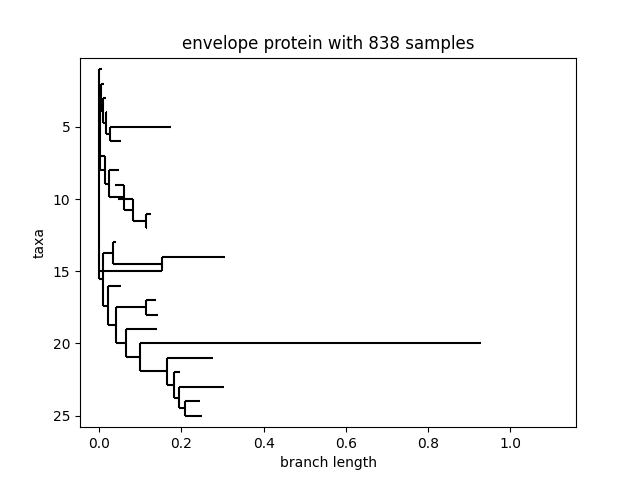
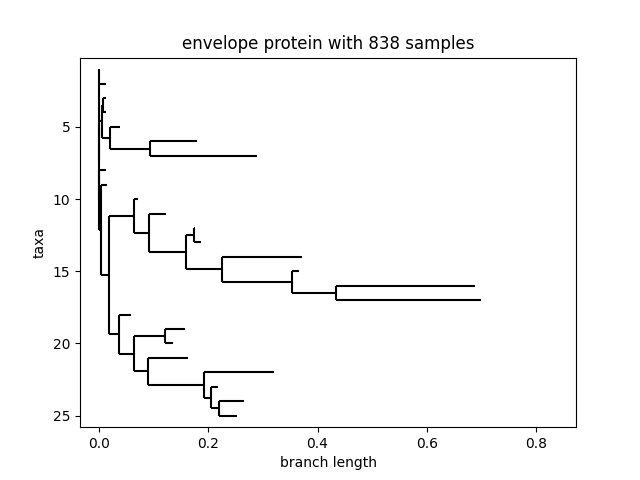
Aligned sequences with muscle tool, updated all phylos and added newick files

diff --git a/src/phylo_proteins/model.py b/src/phylo_proteins/model.py
@@ -1,15 +1,12 @@
-from Bio.Align import MultipleSeqAlignment
-
-
 class Protein:
-    def __init__(self, name, sequence):
+    def __init__(self, name, sequenceRecord):
         """
         Initializes a Protein.
         :param name: name of the protein
         :param sequence: dna sequence associated with the protein
         """
         self.name = name
-        self.sequence = sequence
+        self.sequenceRecord = sequenceRecord
 
 
 class Sample:
@@ -78,50 +75,47 @@ class Samples:
 
     def getAllProteinSequences(self):
         """
-        Returns a dict with protein names as keys and MultipleSequenceAlignment's as values.
-        The alignments only contain unique sequences, so no duplicates are present.
+        Returns a dict with protein names as keys and lists of SeqRecord's as values.
+        The sequences only contain unique sequences, so no duplicates are present.
         """
-        alignments = {}
+        sequences = {}
         sequencesUsed = {}
-        for genome in self.getSamplesAsList():
-            for protein in genome.getProteinsAsList():
-                if protein.name not in alignments:
-                    alignments[protein.name] = MultipleSeqAlignment([])
-                    sequencesUsed[protein.name] = []
-
-                sequence = str(protein.sequence)
+        for sample in self.getSamplesAsList():
+            for protein in sample.getProteinsAsList():
+                if protein.name not in sequences:
+                    sequences[protein.name] = list()
+                    sequencesUsed[protein.name] = set()
+                sequenceStr = str(protein.sequenceRecord.seq)
                 # Skip duplicate sequences for a better looking tree
-                if sequence not in sequencesUsed[protein.name]:
-                    alignments[protein.name].add_sequence(genome.name, sequence)
-                    sequencesUsed[protein.name].append(sequence)
-
-        return alignments
+                if sequenceStr not in sequencesUsed[protein.name]:
+                    sequences[protein.name].append(protein.sequenceRecord)
+                    sequencesUsed[protein.name].add(sequenceStr)
+        return sequences
 
     def getProteinSequences(self, proteinName):
         """
         Function that gets sequences of a certain protein from possible multiple genomes.
         :param proteinName: str, the name of the protein we want the sequences of
-        :return: MultipleSeqAlignment, the sequences we found and associated with their respective genome
+        :return: list of SeqRecord's, the sequences we found and associated with their respective genome
         """
-        alignment = MultipleSeqAlignment([])
+        sequences = []
         sequencesUsed = set()
-        for genome in self.getSamplesAsList():
-            protein = genome.getProtein(proteinName)
+        for sample in self.getSamplesAsList():
+            protein = sample.getProtein(proteinName)
             if not protein:
                 continue
-
-            sequence = str(protein.sequence)
+            sequenceStr = str(protein.sequenceRecord.seq)
             # Skip duplicate sequences for a better looking tree
-            if sequence not in sequencesUsed:
-                alignment.add_sequence(genome.name, sequence)
-                sequencesUsed.add(sequence)
-        return alignment
+            if sequenceStr not in sequencesUsed:
+                sequences.append(protein.sequenceRecord)
+                sequencesUsed.add(sequenceStr)
+        return sequences
 
     def getProteinCounts(self):
         """ Returns a dict with protein names as keys and the amount of times it is sampled as values """
         proteinCounts = {}
-        for genome in self.getSamplesAsList():
-            for protein in genome.getProteinsAsList():
+        for sample in self.getSamplesAsList():
+            for protein in sample.getProteinsAsList():
                 if protein.name not in proteinCounts:
                     proteinCounts[protein.name] = 0
                 proteinCounts[protein.name] += 1

diff --git a/src/phylo_proteins/phylo.py b/src/phylo_proteins/phylo.py
@@ -1,7 +1,8 @@
 from phylo_proteins.fasta import parseFasta
+from phylo_proteins.align import align
 from Bio.Phylo.TreeConstruction import DistanceCalculator, DistanceTreeConstructor
 from Bio.SeqIO import MultipleSeqAlignment
-from Bio.Phylo import draw as drawTree, draw_ascii
+import Bio.Phylo as Phylo
 import matplotlib.pyplot as plt
 
 
@@ -16,8 +17,20 @@ def generateAllProteinPhylos(fastaFile):
             continue
 
         print(f'Generating phylo for {protein}')
-        tree = constructPhyloTree(proteinSequences[protein])
+        alignment = align(proteinSequences[protein])
+        tree = constructPhylo(alignment)
+        Phylo.write(tree, f'../results/phylo/newick/{protein}.newick', 'newick')
         drawPhylo(tree, protein, proteinCounts[protein])
+
+
+def generateProteinPhylo(fastaFile, proteinName):
+    samples = parseFasta(fastaFile)
+    proteinCounts = samples.getProteinCounts()
+    sequences = samples.getProteinSequences(proteinName)
+    alignment = align(sequences)
+    tree = constructPhylo(alignment)
+    Phylo.write(tree, f'../results/phylo/newick/{proteinName}.newick', 'newick')
+    drawPhylo(tree, proteinName, proteinCounts[proteinName])
 
 
 def drawPhylo(tree, name, sampleAmount):
@@ -26,12 +39,12 @@ def drawPhylo(tree, name, sampleAmount):
     Stores png to results/phylo
     """
     # Remove labels for better looking tree
-    drawTree(tree, label_func=lambda a: '')
+    Phylo.draw(tree, label_func=lambda a: '')
     plt.title(f'{name} with {sampleAmount} samples')
     plt.savefig(f"../results/phylo/{name}.png")
 
 
-def constructPhyloTree(alignment: MultipleSeqAlignment):
+def constructPhylo(alignment: MultipleSeqAlignment):
     """
     Function that construct a phylogenetic tree using the neighbour joining algorithm.
     :param alignment: the alignment for which we wish to construct a tree

diff --git a/src/phylo_proteins/fasta.py b/src/phylo_proteins/fasta.py
@@ -12,7 +12,8 @@ def parseFasta(name):
     with open(name) as file:
         for record in SeqIO.parse(file, "fasta"):
             proteinName = getProteinName(record)
-            protein = Protein(proteinName, record.seq)
+            proteinSequence = SeqIO.SeqRecord(record.seq, id=record.id, name=proteinName)
+            protein = Protein(proteinName, proteinSequence)
             ID = getID(record)
             samples.getSample(ID).addProtein(protein)
     return samples
@@ -32,6 +33,7 @@ def getProteinName(record):
     if '[' in proteinName:
         proteinName = proteinName[: proteinName.find('[')]
     proteinName = proteinName.strip().lower()
+    proteinName = proteinName.replace('proteiin', 'protein')
     return proteinName
 
 

diff --git a/src/phylo_proteins/align.py b/src/phylo_proteins/align.py
@@ -1,0 +1,15 @@
+from io import StringIO
+from typing import List
+from Bio import SeqIO, AlignIO
+from Bio.Align import SeqRecord, MultipleSeqAlignment
+from Bio.Align.Applications import MuscleCommandline
+
+
+def align(sequences: List[SeqRecord]) -> MultipleSeqAlignment:
+    handle = StringIO()
+    SeqIO.write(sequences, handle, "fasta")
+    data = handle.getvalue()
+    muscleCline = MuscleCommandline(clwstrict=True)
+    stdout, stderr = muscleCline(stdin=data)
+    alignment = AlignIO.read(StringIO(stdout), "clustal")
+    return alignment

diff --git a/src/main.py b/src/main.py
@@ -1,8 +1,9 @@
-from phylo_proteins.phylo import generateAllProteinPhylos
+from phylo_proteins.phylo import generateAllProteinPhylos, generateProteinPhylo
 
 
 def main():
 	generateAllProteinPhylos('../data/proteins.fasta')
+	# generateProteinPhylo('../data/proteins.fasta', 'chain c')
 
 
 if __name__ == '__main__':

diff --git a/README.md b/README.md
@@ -1,1 +1,13 @@
 # SARS-CoV-2-Phylogeny
+
+## Install
+
+Muscle command line tool needs to be installed for multiple sequences alignment 
+```
+sudo apt install muscle
+```
+
+Furthermore we need some python packages installed as well
+```
+pip3 install -r requirement.txt
+```
